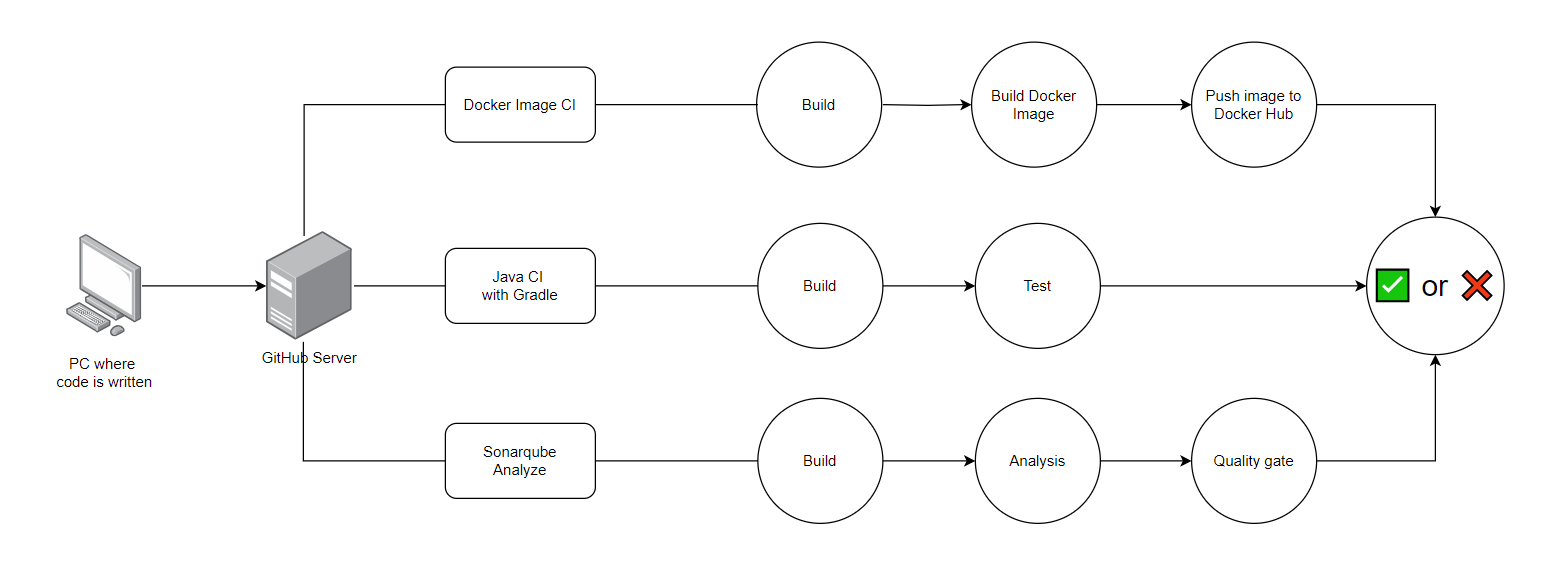
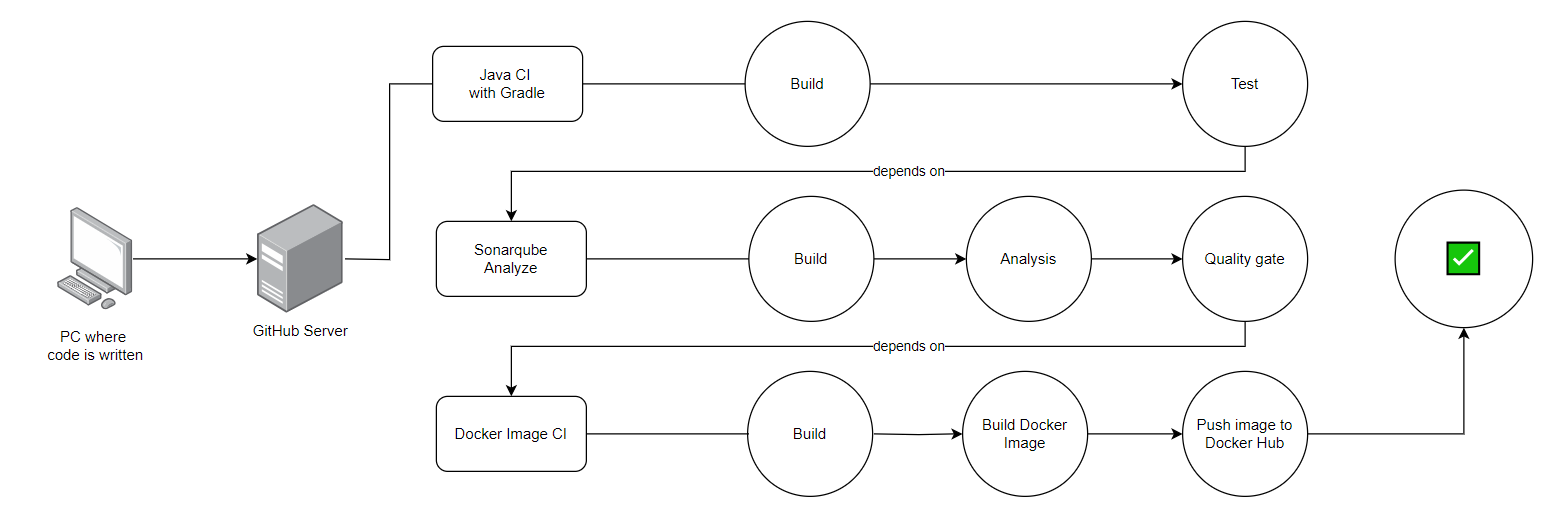
updated docs

diff --git a/docs/Docker/db_container.md b/docs/Docker/db_container.md
@@ -49,20 +49,16 @@ Connect to the MySQL container and run the following SQL commands to create the 
 CREATE DATABASE IF NOT EXISTS `crowdfund_db`;
 USE `crowdfund_db`;
 
--- Dumping structure for table crowdfund_db.payments
-CREATE TABLE IF NOT EXISTS `payments` (
+-- Dumping structure for table crowdfund_db.users
+CREATE TABLE IF NOT EXISTS `users` (
   `id` int NOT NULL AUTO_INCREMENT,
-  `amount` float NOT NULL,
-  `payment_date` datetime(6) NOT NULL,
-  `project_id` int NOT NULL,
-  `user_id` int NOT NULL,
-  PRIMARY KEY (`id`),
-  KEY `FK7h0as5hqhn845eewc7usiy0x3` (`project_id`),
-  KEY `FKj94hgy9v5fw1munb90tar2eje` (`user_id`),
-  CONSTRAINT `FK7h0as5hqhn845eewc7usiy0x3` FOREIGN KEY (`project_id`) REFERENCES `projects` (`id`) ON DELETE CASCADE,
-  CONSTRAINT `FKj94hgy9v5fw1munb90tar2eje` FOREIGN KEY (`user_id`) REFERENCES `users` (`id`) ON DELETE CASCADE
-) ENGINE=InnoDB AUTO_INCREMENT=12 DEFAULT CHARSET=utf8mb4 COLLATE=utf8mb4_0900_ai_ci;
-
+  `email` varchar(255) DEFAULT NULL,
+  `name` varchar(255) DEFAULT NULL,
+  `password` varchar(255) DEFAULT NULL,
+  `profile_picture` varchar(255) NOT NULL,
+  `role` varchar(255) NOT NULL,
+  PRIMARY KEY (`id`)
+) ENGINE=InnoDB AUTO_INCREMENT=1 DEFAULT CHARSET=utf8mb4 COLLATE=utf8mb4_0900_ai_ci;
 
 -- Dumping structure for table crowdfund_db.projects
 CREATE TABLE IF NOT EXISTS `projects` (
@@ -79,8 +75,7 @@ CREATE TABLE IF NOT EXISTS `projects` (
   PRIMARY KEY (`id`),
   KEY `FKhswfwa3ga88vxv1pmboss6jhm` (`user_id`),
   CONSTRAINT `FKhswfwa3ga88vxv1pmboss6jhm` FOREIGN KEY (`user_id`) REFERENCES `users` (`id`) ON DELETE CASCADE
-) ENGINE=InnoDB AUTO_INCREMENT=8 DEFAULT CHARSET=utf8mb4 COLLATE=utf8mb4_0900_ai_ci;
-
+) ENGINE=InnoDB AUTO_INCREMENT=1 DEFAULT CHARSET=utf8mb4 COLLATE=utf8mb4_0900_ai_ci;
 
 -- Dumping structure for table crowdfund_db.project_images
 CREATE TABLE IF NOT EXISTS `project_images` (
@@ -91,19 +86,22 @@ CREATE TABLE IF NOT EXISTS `project_images` (
   PRIMARY KEY (`id`),
   KEY `FKoej10untas4roy2rqxcmbdj42` (`project_id`),
   CONSTRAINT `FKoej10untas4roy2rqxcmbdj42` FOREIGN KEY (`project_id`) REFERENCES `projects` (`id`) ON DELETE CASCADE
-) ENGINE=InnoDB AUTO_INCREMENT=20 DEFAULT CHARSET=utf8mb4 COLLATE=utf8mb4_0900_ai_ci;
+) ENGINE=InnoDB AUTO_INCREMENT=1 DEFAULT CHARSET=utf8mb4 COLLATE=utf8mb4_0900_ai_ci;
 
-
--- Dumping structure for table crowdfund_db.users
-CREATE TABLE IF NOT EXISTS `users` (
+-- Dumping structure for table crowdfund_db.payments
+CREATE TABLE IF NOT EXISTS `payments` (
   `id` int NOT NULL AUTO_INCREMENT,
-  `email` varchar(255) DEFAULT NULL,
-  `name` varchar(255) DEFAULT NULL,
-  `password` varchar(255) DEFAULT NULL,
-  `profile_picture` varchar(255) NOT NULL,
-  `role` varchar(255) NOT NULL,
-  PRIMARY KEY (`id`)
-) ENGINE=InnoDB AUTO_INCREMENT=7 DEFAULT CHARSET=utf8mb4 COLLATE=utf8mb4_0900_ai_ci;
+  `amount` float NOT NULL,
+  `payment_date` datetime(6) NOT NULL,
+  `project_id` int NOT NULL,
+  `user_id` int NOT NULL,
+  PRIMARY KEY (`id`),
+  KEY `FK7h0as5hqhn845eewc7usiy0x3` (`project_id`),
+  KEY `FKj94hgy9v5fw1munb90tar2eje` (`user_id`),
+  CONSTRAINT `FK7h0as5hqhn845eewc7usiy0x3` FOREIGN KEY (`project_id`) REFERENCES `projects` (`id`) ON DELETE CASCADE,
+  CONSTRAINT `FKj94hgy9v5fw1munb90tar2eje` FOREIGN KEY (`user_id`) REFERENCES `users` (`id`) ON DELETE CASCADE
+) ENGINE=InnoDB AUTO_INCREMENT=1 DEFAULT CHARSET=utf8mb4 COLLATE=utf8mb4_0900_ai_ci;
+
 ```
 
 ### Part 3: Final Steps

diff --git a/docs/Backend/be_pipeline.md b/docs/Backend/be_pipeline.md
@@ -12,20 +12,21 @@ The diagram illustrates a CI/CD pipeline process involving multiple stages:
 1. **Code Submission**:
    - Developers write code on their local PC and push it to a GitHub server.
 
-2. **Docker Image CI**:
+2. **Java CI with Gradle**:
+   - **Build**: The Java project is built using Gradle.
+   - **Test**: The application is tested to ensure code quality and functionality.
+
+3. **SonarQube Analyze**:
+   - **Build**: The code undergoes a build process for analysis.
+   - **Analysis**: SonarQube analyzes the code for bugs, vulnerabilities, and code smells.
+   - **Quality
+
+4. **Docker Image CI**:
    - **Build**: The pipeline builds the Docker image.
    - **Build Docker Image**: The Docker image is built.
    - **Push Image to Docker Hub**: The built Docker image is pushed to Docker Hub for storage.
 
-3. **Java CI with Gradle**:
-   - **Build**: The Java project is built using Gradle.
-   - **Test**: The application is tested to ensure code quality and functionality.
-
-4. **SonarQube Analyze**:
-   - **Build**: The code undergoes a build process for analysis.
-   - **Analysis**: SonarQube analyzes the code for bugs, vulnerabilities, and code smells.
-   - **Quality Gate**: A quality gate determines whether the code meets predefined quality standards.
-
 5. **Final Outcome**:
-   - If all steps succeed (Docker, Gradle, and SonarQube checks), the pipeline passes ✅.
+   - If all steps succeed (Docker, Gradle, and SonarQube checks), the pipeline passes ✅.      
    - If any step fails, the pipeline fails ❌.
+      - In case any of the steps fails, all the next jobs are skipped and the pipeline fails.

diff --git a/docs/Frontend/websockets.md b/docs/Frontend/websockets.md
@@ -89,7 +89,6 @@ If the project owner is online and subscribed to the corresponding WebSocket top
 ```javascript
 const onPaymentReceived = (data) => {
     const toastMsg = JSON.parse(data.body); // Parse the received message
-    console.log("Payment received: ", toastMsg);
 
     // Display the notification
     toast({
